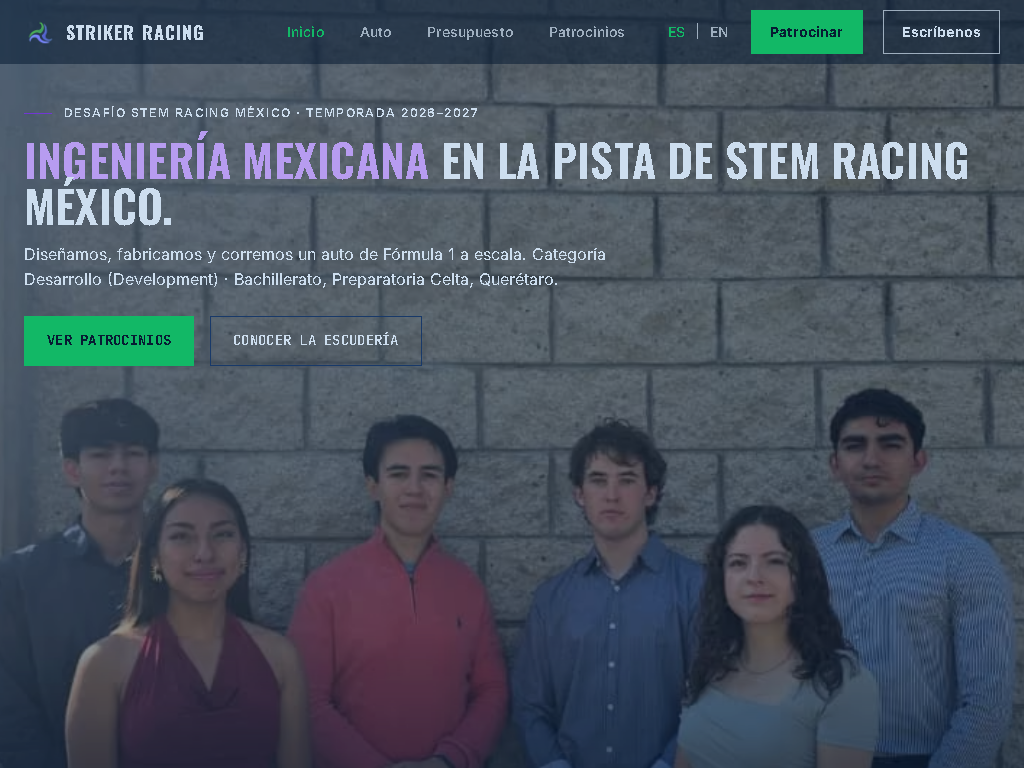
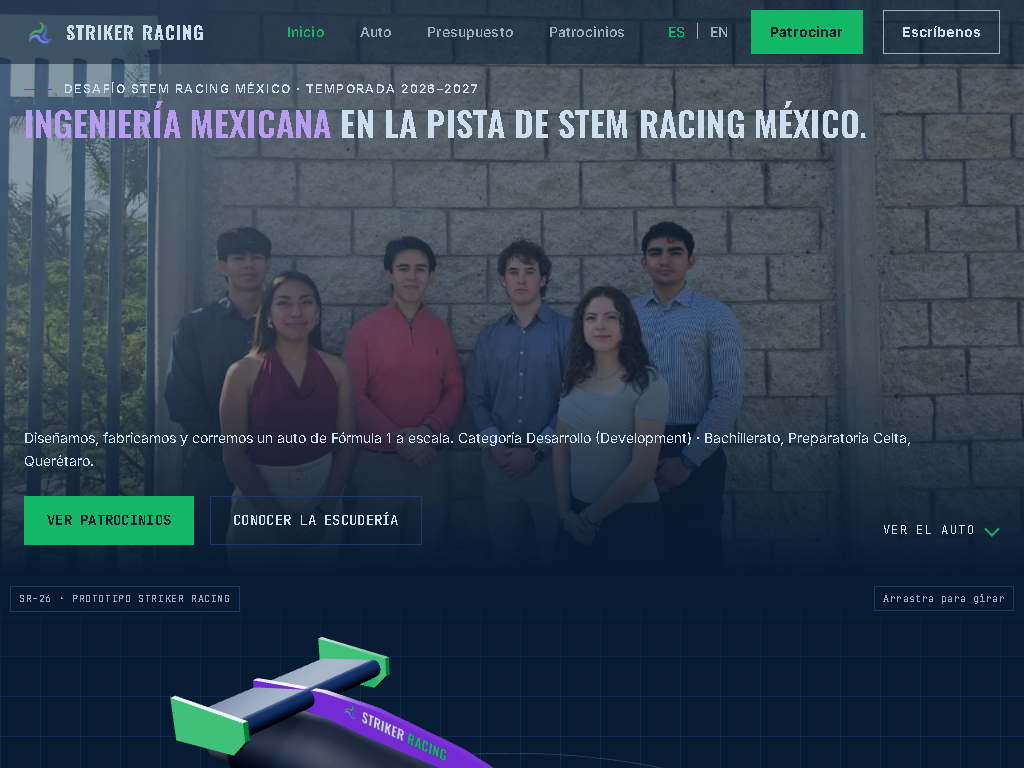
feat(hero): encuadre lejano en escritorio, hero de min(100svh,56.25vw), titulo arriba y subtexto/botones abajo, capturas e informe

diff --git a/css/gallery.css b/css/gallery.css
@@ -891,6 +891,18 @@ dialog.ar-dialog::backdrop{background:rgba(7,27,51,0.85);}
   .hero-scroll{left:16px; right:auto; bottom:12px;}
 }
 @media (max-width:640px){ .hero-photo{--fs:1.4rem;} }
+/* Escritorio (>900 px): encuadre lejano. El hero mide min(100svh, 56.25vw): la foto 16:9 no se amplía más que lo justo para el ancho (equipo completo, aire sobre las cabezas);
+   título arriba sobre el muro vacío, subtexto y botones abajo sobre la zona difuminada (piernas). Ninguno toca las caras (qa:hero). */
+@media (min-width:901px){
+  .hero-photo{--fs:clamp(1.5rem,3.3vw,3.2rem); height:min(100svh, 56.25vw);}
+  .hero-bg{top:0; bottom:auto; height:100%;}
+  .hero-bg img{object-position:50% 30%;}
+  .hero-copy{height:100%; padding-top:calc(var(--hdr) + clamp(8px,1.6vw,28px)); padding-bottom:clamp(20px,3vw,56px); display:flex; flex-direction:column; justify-content:space-between;}
+  .hero-copy .room-tag{margin-bottom:8px;}
+  .hero-copy h1{margin:0; max-width:min(980px,100%);}
+  .hero-copy .hero-lead{font-size:clamp(0.9rem,1.1vw,1.02rem); max-width:min(100ch,100%); margin-bottom:14px;}
+}
+
 .viewer-band{padding:0; background:var(--navy-deep);}
 .viewer-full .model-stage{margin:0; width:100%; aspect-ratio:auto; min-height:80vh; min-height:80svh; border:none; background:transparent;}
 /* la cuadrícula del plano vive en ::before y entra y sale con mask-image: el visor continúa el mismo navy del hero y de la sección siguiente, sin bordes ni cambio de fondo */

diff --git a/index.html b/index.html
@@ -163,13 +163,17 @@
     <!-- hero-img:end -->
   </div>
   <div class="wrap hero-copy">
+    <div class="hero-copy-top">
     <div class="room-tag micro">Desafío STEM Racing México · Temporada 2026–2027</div>
     <h1><em>Ingeniería mexicana</em> en la pista de STEM Racing México.</h1>
+    </div>
+    <div class="hero-copy-bottom">
     <p class="hero-lead">Diseñamos, fabricamos y corremos un auto de Fórmula 1 a escala. Categoría Desarrollo (Development) · Bachillerato, Preparatoria Celta, Querétaro.</p>
     <div class="cta-row">
           <a class="btn btn-solid" href="/patrocinios/">Ver patrocinios</a>
           <a class="btn" href="#equipo">Conocer la escudería</a>
         </div>
+    </div>
   </div>
   <a class="hero-scroll" href="#sr26"><span>Ver el auto</span></a>
 </header>

diff --git a/en/index.html b/en/index.html
@@ -163,13 +163,17 @@
     <!-- hero-img:end -->
   </div>
   <div class="wrap hero-copy">
+    <div class="hero-copy-top">
     <div class="room-tag micro">STEM Racing Mexico Challenge · 2026–2027 season</div>
     <h1><em>Mexican engineering</em> on the STEM Racing Mexico track.</h1>
+    </div>
+    <div class="hero-copy-bottom">
     <p class="hero-lead">We design, build and race a scale Formula 1 car. Development Category · High school, Preparatoria Celta, Querétaro.</p>
     <div class="cta-row">
           <a class="btn btn-solid" href="/en/sponsorship/">View sponsorship</a>
           <a class="btn" href="#team">Meet the team</a>
         </div>
+    </div>
   </div>
   <a class="hero-scroll" href="#sr26"><span>See the car</span></a>
 </header>

diff --git a/INFORME.md b/INFORME.md
@@ -58,3 +58,8 @@ Rendimiento: inicio 90/91, /auto/ 98/98, presupuesto 99/99, patrocinios 99/99. A
 - **Visor.**  ya no tiene fondo  ni bordes: es el mismo navy y la cuadrícula del plano ( con ) entra y sale suave. Efecto lateral: lo mismo aplica al visor de /auto/.
 - **Póster del visor.** Los  tenían el menú fijo («STRIKER RACING / Patrocinar») horneado en la esquina;  ahora oculta el menú y se regeneraron.
 - **Capturas.**  →  (1920, 1440, 1024, 390). Queda una línea normal de sección entre los datos del equipo y «Cinco integrantes» (borde de la siguiente sección, mismo navy); no se tocó.
+
+## Hero: encuadre más lejano (3-oct, quinta tanda)
+- **Altura.** En escritorio (>900 px) el hero mide `min(100svh, 56.25vw)`: la foto 16:9 se ajusta al ancho sin ampliarse de más (equipo completo, aire sobre las cabezas, torsos visibles), con `object-position: 50% 30%`. Antes medía ~1090 px a 1440 y la foto se ampliaba ~1.5×.
+- **Texto.** Etiqueta y título (máx. 2 líneas) arriba sobre el muro; subtexto y botones abajo sobre la zona difuminada (piernas); `--fs: clamp(1.5rem, 3.3vw, 3.2rem)`. El HTML (ES y EN) agrupa el texto en `.hero-copy-top` y `.hero-copy-bottom`. ≤900 px sin cambios.
+- **Pruebas.** `qa:hero` pasa a 1920, 1440, 1024 y 390 (ES y EN). El tamaño de la cabeza ya no depende del alto de la ventana sino solo del ancho: la cabeza más grande (rizado) mide ~20 % del alto de la foto con 1 % de margen en `hero-safe.json` (~17 % sin margen), no 12-14 %; bajarlo más exige una foto con más aire o encuadre más abierto. Capturas: `qa/screens/hero-safe-*` y `hero-seams-*`.
